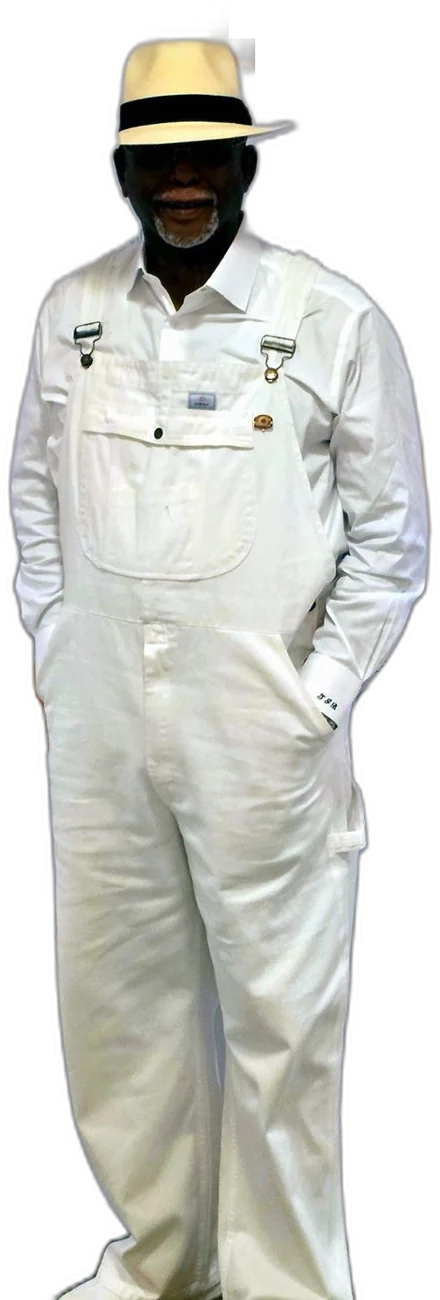
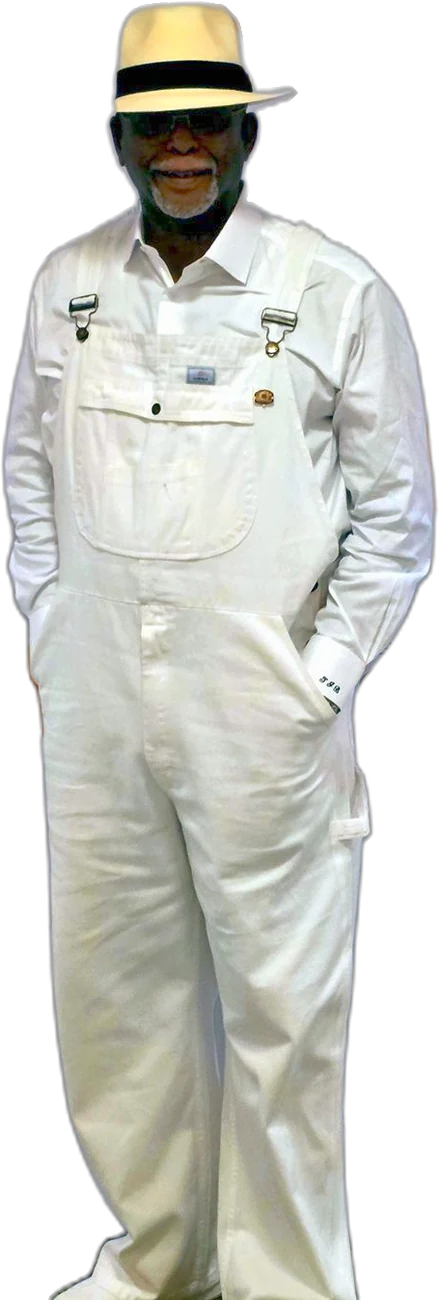
Rename Barbershop Briefings to Barbershop Talks; brighten Dr. Bell's face on the album cover cutout
Claude-Session: https://claude.ai/code/session_01UNGppeKG2i2gynzaAnQVjQ

diff --git a/our-work.html b/our-work.html
@@ -4,7 +4,7 @@
 <meta charset="utf-8">
 <meta name="viewport" content="width=device-width, initial-scale=1">
 <title>Our Work · Making Health Make Sense</title>
-<meta name="description" content="Dr. Bell Says videos, barbershop briefings, church health events, radio tips, health-career scholarships and the Lowcountry Jazz Festival: every program helps people understand their health before it becomes a crisis.">
+<meta name="description" content="Dr. Bell Says videos, barbershop talks, church health events, radio tips, health-career scholarships and the Lowcountry Jazz Festival: every program helps people understand their health before it becomes a crisis.">
 <meta property="og:title" content="Our Work — Meeting people where they are">
 <meta property="og:description" content="In churches, on air, in barber chairs and online.">
 <meta property="og:image" content="/img/bell-tv-interview.jpg">
@@ -245,7 +245,7 @@
   /* Programs */
   var P = [
     { t: 'Dr. Bell Says', where: 'Online & on air · Statewide', k: ['education', 'media'], img: 'bell-tv-interview.jpg', pos: '50% 40%', d: 'Short, plain-language video tips that give you one thing you can do today, plus the question to bring to your doctor.', a: 'dr-bell-says.html', l: 'Watch the tips' },
-    { t: 'Barbershop Briefings', where: 'Barbershops & beauty shops', k: ['community', 'education'], img: 'bell-outdoors.jpg', pos: '45% 6%', d: 'Health talks in the trusted places where people already gather. Blood pressure, explained between haircuts.', a: 'invite.html', l: 'Host a briefing' },
+    { t: 'Barbershop Talks', where: 'Barbershops & beauty shops', k: ['community', 'education'], img: 'bell-outdoors.jpg', pos: '45% 6%', d: 'Health talks in the trusted places where people already gather. Blood pressure, explained between haircuts.', a: 'invite.html', l: 'Host a talk' },
     { t: 'Closing the Gap LIVE', where: 'Churches, panels & civic events', k: ['community'], img: 'bell-painting.jpg', pos: '50% 18%', d: 'Panels, church health ministry events and recorded community outreach that bring the conversation into the room.', a: 'invite.html', l: 'Bring it to your church' },
     { t: 'Radio Tips & PSAs', where: 'Local radio & television', k: ['media', 'education'], img: 'bell-portrait-suit.jpg', pos: '50% 8%', d: 'Decades of on-air health tips and public service announcements heard across South Carolina.', a: 'dr-bell-says.html#news-title', l: 'See him on air' },
     { t: 'Health-Career Scholarships', where: 'Students pursuing health careers', k: ['scholarships'], img: 'bell-medals.jpg', pos: '62% 35%', d: 'Scholarships for students working toward careers in health care: the next generation of doctors, nurses, pharmacists and health professionals. Updated eligibility is coming soon.', a: 'jazz-festival.html#jobs', l: 'How scholarships are funded' },
@@ -308,7 +308,7 @@
   /* Sponsor picker */
   var S = [
     { t: 'The Dr. Bell Says series', s: 'Video health tips', img: 'bell-tv-interview.jpg', pos: '47% 40%', does: ['Helps film new tips for the topics marked “coming soon”', 'Keeps every tip free to watch and share with family'] },
-    { t: 'A barbershop tour', s: 'Health talks in the chair', img: 'bell-outdoors.jpg', pos: '42% 14%', does: ['Brings briefings to more barbershops and beauty shops', 'Meets people in the places they already trust'] },
+    { t: 'A barbershop tour', s: 'Health talks in the chair', img: 'bell-outdoors.jpg', pos: '42% 14%', does: ['Brings Barbershop Talks to more barbershops and beauty shops', 'Meets people in the places they already trust'] },
     { t: 'A radio PSA campaign', s: 'On air across the state', img: 'bell-portrait-suit.jpg', pos: '50% 16%', does: ['Puts Dr. Bell’s tips on local radio', 'Reaches listeners who aren’t online'] },
     { t: 'A health-career scholarship', s: 'For students pursuing health careers', img: 'bell-medals.jpg', pos: '64% 30%', does: ['Helps a student pay for school on the way to a health career', 'Grows the next generation of doctors, nurses and health professionals'] },
     { t: 'The Health Literacy Toolkit', s: 'For schools, churches & nonprofits', img: 'bell-reading.jpg', pos: '45% 22%', does: ['Helps build a toolkit community leaders can use on their own', 'Carries Dr. Bell’s approach into more classrooms and congregations'] }

diff --git a/index.html b/index.html
@@ -397,10 +397,10 @@ footer{background:#15112B;color:#D3CCE3;font-size:16px;padding:70px 0 34px}
 </section>
 
 <!-- Marquee -->
-<div class="marquee" aria-label="Our programs: Dr. Bell Says, Barbershop Briefings, Closing the Gap LIVE, Radio tips and PSAs, health-career scholarships, Lowcountry Jazz Festival">
+<div class="marquee" aria-label="Our programs: Dr. Bell Says, Barbershop Talks, Closing the Gap LIVE, Radio tips and PSAs, health-career scholarships, Lowcountry Jazz Festival">
   <div class="marquee-track" aria-hidden="true">
-    <span>Dr. Bell Says</span><span>Barbershop Briefings</span><span>Closing the Gap LIVE</span><span>Know your numbers</span><span>Radio tips &amp; PSAs</span><span>Health-career scholarships</span><span>Lowcountry Jazz Festival</span><span>Ask better questions</span>
-    <span>Dr. Bell Says</span><span>Barbershop Briefings</span><span>Closing the Gap LIVE</span><span>Know your numbers</span><span>Radio tips &amp; PSAs</span><span>Health-career scholarships</span><span>Lowcountry Jazz Festival</span><span>Ask better questions</span>
+    <span>Dr. Bell Says</span><span>Barbershop Talks</span><span>Closing the Gap LIVE</span><span>Know your numbers</span><span>Radio tips &amp; PSAs</span><span>Health-career scholarships</span><span>Lowcountry Jazz Festival</span><span>Ask better questions</span>
+    <span>Dr. Bell Says</span><span>Barbershop Talks</span><span>Closing the Gap LIVE</span><span>Know your numbers</span><span>Radio tips &amp; PSAs</span><span>Health-career scholarships</span><span>Lowcountry Jazz Festival</span><span>Ask better questions</span>
   </div>
 </div>
 
@@ -551,7 +551,7 @@ footer{background:#15112B;color:#D3CCE3;font-size:16px;padding:70px 0 34px}
   </div>
   <div class="rail-track" data-rail-track tabindex="0" aria-label="Programs, scroll sideways">
     <a class="rail-card lift" data-rail-item href="dr-bell-says.html"><div class="ph"><img src="/img/bell-portrait.jpg" alt="" loading="lazy"></div><div class="body"><span class="tag">Education · Media</span><span class="t">Dr. Bell Says</span><span class="d">Short, plain-language video tips you can act on today.</span><span class="go">Watch the tips →</span></div></a>
-    <a class="rail-card lift" data-rail-item href="invite.html"><div class="tile" style="background:var(--teal);color:#fff">Barber&shy;shop Brief&shy;ings</div><div class="body"><span class="tag">Community</span><span class="t">Barbershop Briefings</span><span class="d">Health talks in the trusted spaces where people already gather.</span><span class="go">Host a briefing →</span></div></a>
+    <a class="rail-card lift" data-rail-item href="invite.html"><div class="tile" style="background:var(--teal);color:#fff">Barber&shy;shop Brief&shy;ings</div><div class="body"><span class="tag">Community</span><span class="t">Barbershop Talks</span><span class="d">Health talks in the trusted spaces where people already gather.</span><span class="go">Host a talk →</span></div></a>
     <a class="rail-card lift" data-rail-item href="invite.html"><div class="ph"><img src="/img/bell-portrait-suit.jpg" alt="" loading="lazy"></div><div class="body"><span class="tag">Community</span><span class="t">Closing the Gap LIVE</span><span class="d">Panels, church health ministry events, and community outreach.</span><span class="go">Bring it to your church →</span></div></a>
     <a class="rail-card lift" data-rail-item href="dr-bell-says.html"><div class="ph"><img src="/img/bell-tv-interview.jpg" alt="" loading="lazy" style="object-position:60% center"></div><div class="body"><span class="tag">Media</span><span class="t">Radio Tips &amp; PSAs</span><span class="d">Decades of on-air health tips heard across South Carolina.</span><span class="go">Listen &amp; watch →</span></div></a>
     <a class="rail-card lift" data-rail-item href="jazz-festival.html#jobs"><div class="tile" style="background:var(--gold);color:var(--ink)">Future caregivers</div><div class="body"><span class="tag">Scholarships</span><span class="t">Health-Career Scholarships</span><span class="d">For students working toward careers in health care.</span><span class="go">Sponsor a scholar →</span></div></a>
